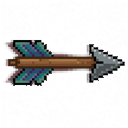
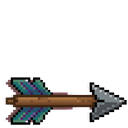
Record the open-set rekey attempt and Vira's review.
The stills are not accepted. Translucent veils were deleted, solid outlines dropped, and the bowstring reads as sparkles. The task carries that review for the next session.

diff --git a/tools/imglib/key.py b/tools/imglib/key.py
@@ -345,52 +345,111 @@ def strip_rim(arr: np.ndarray, hue_width: float = RIM_HUE_WIDTH, passes: int = 1
     return arr
 
 
-def border_comparison(rgb: np.ndarray):
-    """Plate colours from the border, plus strong black, white, and blue border colours.
+def _foreground_medians(samples: np.ndarray) -> list:
+    """Strong black, white, and blue colours in `samples` (N x 3). Plate-tinted pixels are left out.
 
-    Plate colours are the colour-to-alpha base. Black, white, and blue are subject samples:
-    they never become a plate reference, and they are a blend target only on the fringe that
-    touches the plate. Returns (plate refs or None, foreground samples).
+    Those three are subject samples. They are never a plate reference. A pixel that still
+    carries the plate (magenta excess in red and blue) is not a clean sample of them.
     """
-    samples = border_samples(rgb)
+    if samples.size == 0:
+        return []
     h, sat, v = hsv(samples.reshape(-1, 1, 3))
     h = np.asarray(h).reshape(-1)
     sat = np.asarray(sat).reshape(-1)
     v = np.asarray(v).reshape(-1)
     peak = samples.max(axis=1).astype(np.int16)
     floor = samples.min(axis=1).astype(np.int16)
-    black = peak <= 48
-    white = (floor >= 210) & (sat <= 0.16)
-    blue = (hue_gap(h, 220.0) <= 45.0) & (sat >= 0.40) & (v >= 0.35)
-    foreground = []
+    spill = np.maximum(0, np.minimum(samples[:, 0], samples[:, 2]).astype(np.int16) - samples[:, 1].astype(np.int16))
+    black = (peak <= 48) & (spill <= 12)
+    white = (floor >= 210) & (sat <= 0.12) & (spill <= 12)
+    blue = (hue_gap(h, 220.0) <= 45.0) & (sat >= 0.40) & (v >= 0.35) & (spill <= 24)
+    found = []
     for mask in (black, white, blue):
         if int(np.asarray(mask).sum()) >= 4:
-            foreground.append(tuple(int(x) for x in np.median(samples[mask], axis=0)))
-    plate_px = (hue_gap(h, PLATE_HUE) <= 36.0) & (sat >= 0.40) & (v >= 0.28) & ~black & ~white & ~blue
+            found.append(tuple(int(x) for x in np.median(samples[mask], axis=0)))
+    return found
+
+
+def border_comparison(rgb: np.ndarray):
+    """Plate colours from the border, plus strong black, white, and blue border colours.
+
+    Plate colours are the colour-to-alpha base. Black, white, and blue are subject samples:
+    they never become a plate reference. Returns (plate refs or None, foreground samples).
+    """
+    samples = border_samples(rgb)
+    h, sat, v = hsv(samples.reshape(-1, 1, 3))
+    h = np.asarray(h).reshape(-1)
+    sat = np.asarray(sat).reshape(-1)
+    v = np.asarray(v).reshape(-1)
+    foreground = _foreground_medians(samples)
+    spill = np.maximum(0, np.minimum(samples[:, 0], samples[:, 2]).astype(np.int16) - samples[:, 1].astype(np.int16))
+    plate_px = (hue_gap(h, PLATE_HUE) <= 36.0) & (sat >= 0.40) & (v >= 0.28) & (spill > 12)
     hits = int(np.asarray(plate_px).sum())
     if hits < 16 or hits / float(max(1, samples.shape[0])) < 0.05:
         return None, foreground
     return background_refs(rgb, hue=PLATE_HUE, hue_tol=36.0, sat_min=0.40, val_min=0.28), foreground
 
 
-def _fringe_color(rgb: np.ndarray, pick: np.ndarray, amount: np.ndarray, foreground: list):
-    """Pull the magenta plate out of a mix. Green is never invented.
+def _edge_foreground(rgb: np.ndarray, plate: np.ndarray) -> list:
+    """Black, white, and blue on the subject edge, where the figure meets the plate."""
+    ring = dilate(plate, 2) & ~plate
+    if not np.any(ring):
+        return []
+    return _foreground_medians(rgb[ring])
 
-    `pick`, `amount` and `foreground` stay in the signature so the border samples
-    remain available. The plate channel is the shared red and blue.
+
+def _touching(cand: np.ndarray, seeds: np.ndarray) -> np.ndarray:
+    """Components of `cand` that touch `seeds`."""
+    if not np.any(cand) or not np.any(seeds):
+        return np.zeros(cand.shape, dtype=bool)
+    n, lab, _areas, _touch = components(cand)
+    if n == 0:
+        return np.zeros(cand.shape, dtype=bool)
+    labels = np.unique(lab[dilate(seeds, 1) & cand])
+    labels = labels[labels > 0]
+    if labels.size == 0:
+        return np.zeros(cand.shape, dtype=bool)
+    return np.isin(lab, labels)
+
+
+def _fringe_color(rgb: np.ndarray, pick: np.ndarray, amount: np.ndarray, foreground: list):
+    """Remove the plate from a mix. Black, white, and blue samples stay those colours.
+
+    The plate shows up as red and blue together above green. Subtract that excess from
+    red and blue. Green is left as drawn, and RGB is never inverted. `amount` is the
+    colour-to-alpha plate fraction. `pick` is the plate colour. `foreground` is the
+    subject samples: when one of them explains the pixel, that colour is kept.
     """
-    _ = (pick, amount, foreground)
-    red = rgb[..., 0].astype(np.float32)
-    green = rgb[..., 1].astype(np.float32)
-    blue = rgb[..., 2].astype(np.float32)
+    p = rgb.astype(np.float32)
+    k = pick.astype(np.float32)
+    red, green, blue = p[..., 0], p[..., 1], p[..., 2]
     spill = np.maximum(0.0, np.minimum(red, blue) - green)
-    recon = np.empty_like(rgb, dtype=np.float32)
-    recon[..., 0] = np.clip(red - spill, 0.0, 255.0)
-    recon[..., 1] = green
-    recon[..., 2] = np.clip(blue - spill, 0.0, 255.0)
-    opacity = 1.0 - np.clip(spill / 255.0, 0.0, 1.0)
-    rgb_u8 = np.clip(np.rint(recon), 0, 255).astype(np.uint8)
-    alpha_u8 = np.clip(np.rint(opacity * 255.0), 0, 255).astype(np.uint8)
+    despill = np.empty_like(p)
+    despill[..., 0] = np.clip(red - spill, 0.0, 255.0)
+    despill[..., 1] = green
+    despill[..., 2] = np.clip(blue - spill, 0.0, 255.0)
+    removed = spill / np.maximum(np.minimum(red, blue), 1.0)
+    alpha = np.clip(1.0 - amount.astype(np.float32), 0.0, 1.0)
+    alpha = np.minimum(alpha, 1.0 - removed)
+    err_best = np.full(p.shape[:2], 1e9, dtype=np.float32)
+    chosen = despill
+    chosen_a = alpha
+    for sample in foreground:
+        s = np.array(sample, dtype=np.float32)
+        sk = s - k
+        denom = np.maximum((sk * sk).sum(axis=-1), 1.0)
+        a = np.clip(((p - k) * sk).sum(axis=-1) / denom, 0.0, 1.0)
+        recon = a[..., None] * s + (1.0 - a[..., None]) * k
+        err = np.sqrt(((p - recon) ** 2).sum(axis=-1) / 3.0)
+        better = err < err_best
+        err_best = np.where(better, err, err_best)
+        chosen = np.where(better[..., None], s, chosen)
+        chosen_a = np.where(better, a, chosen_a)
+    use = err_best <= 18.0
+    out_rgb = np.where(use[..., None], chosen, despill)
+    out_a = np.where(use, chosen_a, alpha)
+    rgb_u8 = np.clip(np.rint(out_rgb), 0, 255).astype(np.uint8)
+    alpha_u8 = np.clip(np.rint(np.clip(out_a, 0.0, 1.0) * 255.0), 0, 255).astype(np.uint8)
     return rgb_u8, alpha_u8
 
 
@@ -401,17 +460,20 @@ def punch(im: Image.Image, spill_flood: bool = False) -> Image.Image:
 
 
 def key_to_alpha(im: Image.Image, spill_flood: bool = True, tol: float = LAB_TOL, refs=None) -> Image.Image:
-    """Colour-to-alpha against the border plate. Glow and soft edges stay partial.
+    """One colour-to-alpha against the border plate. Glow and soft shading stay partial.
 
-    Strong black, white, and blue border pixels are subject samples, not the key. Interior
-    pixels stay as drawn. Solid plate becomes transparent black. RGB is never inverted.
-    `spill_flood` is accepted so callers keep one signature; stills and extracts share this path.
-    `tol` is accepted for the same reason. `refs` pins the plate colours.
+    Solid plate becomes transparent black. A pixel that touches that plate and still carries
+    the plate hue is unmixed, so the subject colour remains and the plate becomes alpha.
+    Strong black, white, and blue samples (image border, or the subject edge) stay those
+    colours when they explain the mix. Interior pixels stay as drawn. RGB is never inverted.
+    `spill_flood` is accepted so callers keep one signature. `tol` is the Lab distance of
+    solid plate. `refs` pins the plate colours.
     """
     src = im.convert("RGBA")
     arr = np.array(src, dtype=np.uint8, copy=True)
     rgb = arr[:, :, :3]
-    foreground: list = []
+    src_a = arr[:, :, 3]
+    _ = spill_flood
     if refs is None:
         found, foreground = border_comparison(rgb)
         if found is None:
@@ -423,35 +485,49 @@ def key_to_alpha(im: Image.Image, spill_flood: bool = True, tol: float = LAB_TOL
     else:
         refs = [tuple(int(v) for v in r) for r in refs]
         _found, foreground = border_comparison(rgb)
-    _ = spill_flood
     amount, pick = plate_amount(rgb, refs)
-    mask, refs, dist = plate_mask(rgb, refs=refs, alpha=arr[:, :, 3], tol=tol)
+    dist = delta_e(rgb, refs)
     hue, sat, val = hsv(rgb)
-    # Blue through violet is a plate-mixed glow. A purple pixel is that glow with the
-    # plate still in it (blue at least near red). Red maroon fails that test and stays.
-    blue = rgb[:, :, 2].astype(np.int16)
     red = rgb[:, :, 0].astype(np.int16)
-    # A plate mix sits near the plate hue and keeps its blue. Grey-blue cloth and red
-    # maroon fail that test, so a tinted body is not treated as glow.
-    plate_mix = (
-        (hue_gap(hue, PLATE_HUE) <= 32.0)
-        & (blue * 2 >= red)
-        & (sat >= 0.12)
-        & (val > 0.12)
-        & (amount < 0.90)
+    green = rgb[:, :, 1].astype(np.int16)
+    blue = rgb[:, :, 2].astype(np.int16)
+    spill = np.maximum(0, np.minimum(red, blue) - green)
+    clearly = (dist <= float(tol)) | (amount >= 0.88)
+    pale = (
+        (spill >= 12)
+        & (sat < 0.22)
+        & (val > 0.70)
+        & (hue_gap(hue, PLATE_HUE) <= 30.0)
+        & dilate(clearly, 1)
+        & ~clearly
     )
-    pale_lip = (sat < 0.22) & (val > 0.70) & (hue_gap(hue, PLATE_HUE) <= 28.0) & (blue + 30 >= red)
-    reached = flood_border(mask | plate_mix).astype(bool)
-    stray = ~mask & dilate(mask, 3) & (hue_gap(hue, PLATE_HUE) <= 26.0) & (sat >= 0.35) & ~plate_mix
-    already = arr[:, :, 3] == 0
-    clear = (mask & ~plate_mix) | (amount >= 0.90) | (dilate(mask, 1) & pale_lip) | stray | already
-    rim = dilate(mask, 2) & (sat <= 0.16) & (amount >= 0.18) & (amount < 0.90) & ~pale_lip & ~plate_mix
-    fringe = (reached & plate_mix & ~clear) | (rim & ~clear)
+    clear = clearly | pale | (src_a == 0)
+    foreground = list(dict.fromkeys(list(foreground) + _edge_foreground(rgb, clear)))
+    cand = ~clear & (spill >= 36) & ((hue_gap(hue, PLATE_HUE) <= 40.0) | (amount >= 0.35))
+    fringe = _touching(cand, clear)
+    # Light plate mixes sit a short way in from the plate: red and blue both above green,
+    # and blue at least near red. A red-dominant colour (maroon, leather) is the subject.
+    radius = max(4, min(rgb.shape[0], rgb.shape[1]) // 32)
+    red_dominant = red > (blue + 30)
+    mild = dilate(clear, radius) & ~clear & (spill >= 12) & ~red_dominant
+    # A light veil (the wisp's outer purple, the shopkeep glow) can be many pixels
+    # thick. Walk it while it stays light and not a red subject colour.
+    light = ~clear & (spill >= 12) & ~red_dominant & (val >= 0.55)
+    # A dark plate mix on the outline (black or feather edge cut with magenta).
+    # Hue stays tight so a purple drawn inside the art is not walked into.
+    dark_plate = ~clear & (spill >= 40) & ~red_dominant & (hue_gap(hue, PLATE_HUE) <= 22.0)
+    fringe = fringe | mild | _touching(light | dark_plate, clear)
     out = arr.copy()
     out[clear] = 0
     if np.any(fringe):
         recon, alpha = _fringe_color(rgb, pick, amount, foreground)
-        out[fringe, :3] = recon[fringe]
-        out[fringe, 3] = alpha[fringe]
+        alpha = np.clip(np.rint(alpha.astype(np.float32) * (src_a.astype(np.float32) / 255.0)), 0, 255).astype(np.uint8)
+        # A light tint on a solid pixel loses the plate colour and stays opaque.
+        tint = fringe & (alpha >= 230)
+        out[tint, :3] = recon[tint]
+        soft = fringe & (alpha >= 8) & (alpha < 230)
+        out[soft, :3] = recon[soft]
+        out[soft, 3] = alpha[soft]
         out[fringe & (alpha < 8)] = 0
+    out[out[:, :, 3] == 0] = 0
     return Image.fromarray(out, "RGBA")

diff --git a/tools/imglib/geom.py b/tools/imglib/geom.py
@@ -37,11 +37,21 @@ def resize_rgba(im: Image.Image, size: tuple[int, int]) -> Image.Image:
         pack[:, :, :3] = np.where(solid[..., None], arr[:, :, :3], 0.0)
         pack[:, :, 3] = np.where(solid, 255.0, 0.0)
         pooled = np.array(Image.fromarray(np.clip(np.rint(pack), 0, 255).astype(np.uint8), "RGBA").resize(size, Image.Resampling.BOX), dtype=np.float32)
-        hair = (cover >= 1) & (cover <= 48) & (scaled[:, :, 3] < 170.0)
+        # A thin solid line (a bowstring) falls under the filter. The soft edge of a
+        # solid mass sits next to pixels that stayed opaque, so that edge is left soft.
+        faint = (cover >= 1) & (cover <= 72) & (scaled[:, :, 3] < 150.0)
+        high = scaled[:, :, 3] >= 200.0
+        pad = np.pad(high, 1, mode="constant", constant_values=False)
+        near = (
+            pad[:-2, :-2] | pad[:-2, 1:-1] | pad[:-2, 2:]
+            | pad[1:-1, :-2] | pad[1:-1, 2:]
+            | pad[2:, :-2] | pad[2:, 1:-1] | pad[2:, 2:]
+        )
+        hair = faint & ~near
         if np.any(hair):
             tone = np.clip(pooled[:, :, :3] * (255.0 / np.maximum(pooled[:, :, 3:4], 1.0)), 0, 255)
             scaled[hair, :3] = tone[hair]
-            scaled[hair, 3] = np.maximum(scaled[hair, 3], 210.0)
+            scaled[hair, 3] = np.maximum(scaled[hair, 3], 220.0)
     return Image.fromarray(np.clip(np.rint(scaled), 0, 255).astype(np.uint8), "RGBA")
 
 

diff --git a/design/tasks/rekey-assets.md b/design/tasks/rekey-assets.md
@@ -34,9 +34,13 @@ This session wrote the open-set live PNGs so you can see the attempt. They are n
 - Reference is the source plate beside each live still.
 - First rewrite is the open set. She judges that before any other frame is rewritten.
 - Fixed checklist stays out: dummy, guild, guild_reception, stall, anvil, fence, pickaxe, male edge-cull.
-- Nearest-neighbor only when sizing up. High-quality resize when sizing down.
+- Nearest-neighbor only when sizing up. High-quality resize when sizing down. A downscale that leaves head.png blurry is not the result.
 - slot_legs.png comes from `_src/sources/assets/ui/gear/slot_legs.jpg` (dark greaves on magenta). Not from the extract gate.
-- Live stills of the attempt get committed so the next session can see them. They are not accepted.
+- Live stills of each attempt get committed so the next session can see them. They are not accepted.
+- Translucent areas on the plate stay as partial alpha. Shopkeep glow, the wisp outer layer, arrow shading, and the orb border were deleted. That is a failure. The orb border was the glow and was supposed to come back as alpha.
+- Solid outlines drawn on the plate survive. The hatchet is mostly good and is missing that outline. Other stills lost the same solid edge.
+- The longbow string must read as one string. Sparkles are not a string.
+- Female idle_down still has chunks missing from the arms.
 - Resume in a fresh session.
 
 ## Chosen surfaces, in order
@@ -53,32 +57,46 @@ This session wrote the open-set live PNGs so you can see the attempt. They are n
 Do not reopen: assets/fx/dummy.png, assets/sprites/buildings/guild.png, assets/sprites/buildings/guild_reception.png, assets/sprites/buildings/stall.png, assets/sprites/props/anvil.png, assets/sprites/props/fence.png, assets/ui/gear/pickaxe.png, and the male player frames.
 
 ## Ledger
-Decisions I made that were yours: all eight wisp idles are this one keyed plate, because the only source is idle_up.jpg. The fit ignores alpha below 24 so a faint halo does not shrink the subject. I removed the RGB invert in eat_spill instead of adding another spill case.
-Assumptions carried from memory or docs: stills resolve through the manifest in `_src`. art-pack.md now says soft alpha and a high-quality downscale, matching her 2026-10-09 note. Palette snap was not applied to these stills.
-Also changed: tools/imglib/key.py (key_to_alpha, border_comparison, _fringe_color). tools/imglib/geom.py (resize_rgba, shrink, fit_axis, fit_box). tools/sprite_pipeline.py key_to_alpha docstring. tools/imglib/selftest.py JPEG check now treats alpha above 200 as opaque plate. design/art-pack.md steps 2, 3, and 5. Live PNGs listed above. No `.gd` files. `_src` was not written. Callers of key_to_alpha not run: pack_locomotion.py, pack_walk.py, process_gear_icons.py, rekey_stills.py, process_session_sprites.py, match_keyed_region.py. Callers of fit_box, shrink, and fit_axis not run: pack_locomotion.py, pack_walk.py, pack_turntable.py, pack_facing_fix.py, pack_p4_enemies.py, process_gear_icons.py, process_enemies.py, process_world.py, process_world_pass.py, process_gloam.py, rekey_stills.py.
+Decisions I made that were yours: all eight wisp idles are this one keyed plate. Fringe colour is a despill (subtract min(R, B) - G from R and B), a light-veil walk, and a dark outline only within 22 degrees of the plate. Red-dominant colours were left as drawn. Fit ignores alpha below 24. Canvases stayed 128, orb 48, gear 64. Downscale is premultiplied Lanczos. Hairline lift only where a thin solid line is not the edge of a solid mass.
+Assumptions carried from memory or docs: stills resolve through the manifest in `_src`. slot_legs.jpg is the greaves plate. art-pack.md soft alpha and high-quality downscale still stand. Palette snap was not applied. Her 2026-10-09 review overrides the claim that the veil was kept.
+Also changed: tools/imglib/key.py (key_to_alpha, border_comparison, _fringe_color). tools/imglib/geom.py (resize_rgba hairline). Live PNGs in Chosen surfaces, including all eight wisp idles. This task file. No `.gd` files. `_src` was not written. Previews under `_logs/rekey-look/` (gitignored). Callers of key_to_alpha not run: pack_locomotion.py, pack_walk.py, process_gear_icons.py, rekey_stills.py, process_session_sprites.py, match_keyed_region.py. Callers of fit_box not run: pack_facing_fix.py, pack_p4_enemies.py, process_gear_icons.py, process_gloam.py, process_world.py, process_enemies.py.
 
 ## Baselines for the chosen surface
-C:\Users\Vira\.grok\worktrees\repos-whatdwellsbelow\wdb-art-pipelinepack-20261009-0250\assets\sprites\npcs\shopkeep.png - repo path assets/sprites/npcs/shopkeep.png. Body intact. Magenta gap beside the apron.
-C:\Users\Vira\.grok\worktrees\repos-whatdwellsbelow\wdb-art-pipelinepack-20261009-0250\assets\sprites\enemies\wisp\idle_up.png - repo path assets/sprites/enemies/wisp/idle_up.png. Blue wisp, purple outer edge. The other seven idle facings match this file.
-C:\Users\Vira\.grok\worktrees\repos-whatdwellsbelow\wdb-art-pipelinepack-20261009-0250\assets\fx\arrow.png - repo path assets/fx/arrow.png. Pink fringe on the fletching. Softer outline.
-C:\Users\Vira\.grok\worktrees\repos-whatdwellsbelow\wdb-art-pipelinepack-20261009-0250\assets\sprites\props\hp_orb.png - repo path assets/sprites/props/hp_orb.png. Gem with a purple edge. Much of the canvas is partial alpha.
-C:\Users\Vira\.grok\worktrees\repos-whatdwellsbelow\wdb-art-pipelinepack-20261009-0250\assets\sprites\player\female\idle_down.png - repo path assets/sprites/player/female/idle_down.png. Softer 128. A few magenta pixels on the armor.
-C:\Users\Vira\.grok\worktrees\repos-whatdwellsbelow\wdb-art-pipelinepack-20261009-0250\assets\ui\gear\head.png - repo path assets/ui/gear/head.png. Top hole measured 0. Metal is soft.
-C:\Users\Vira\.grok\worktrees\repos-whatdwellsbelow\wdb-art-pipelinepack-20261009-0250\assets\ui\gear\hatchet.png - repo path assets/ui/gear/hatchet.png. Softer edges. Axe body is mostly partial alpha.
-C:\Users\Vira\.grok\worktrees\repos-whatdwellsbelow\wdb-art-pipelinepack-20261009-0250\assets\ui\gear\longbow.png - repo path assets/ui/gear/longbow.png. String still broken. Bow is mostly partial alpha.
-C:\Users\Vira\.grok\worktrees\repos-whatdwellsbelow\wdb-art-pipelinepack-20261009-0250\assets\ui\gear\slot_legs.png - repo path assets/ui/gear/slot_legs.png. Empty-slot greaves from her jpg. Softer than the file it replaced.
+Current live stills, reviewed by Vira on 2026-10-09. Not accepted.
+
+- assets/sprites/npcs/shopkeep.png. Slightly improved. Huge sections of the translucent glow are missing.
+- assets/sprites/enemies/wisp/idle_up.png, and the other seven idles (same picture). Slightly improved. Huge sections of the translucent outer layer are missing.
+- assets/fx/arrow.png. The translucent shading is gone.
+- assets/sprites/props/hp_orb.png. The translucent border is gone. That border was the glow and was supposed to return as alpha.
+- assets/sprites/player/female/idle_down.png. Chunks of the arms are missing.
+- assets/ui/gear/head.png. Blurry.
+- assets/ui/gear/hatchet.png. Mostly good. Missing the solid outline from the plate.
+- assets/ui/gear/longbow.png. The string reads as sparkles.
+- assets/ui/gear/slot_legs.png. Not called out in this review.
+
+The 2026-10-09-0250 worktree notes (magenta gap, purple wisp edge, pink arrow fringe, partial hatchet) were the attempt before this one.
 
 ## Files and functions to touch
-- tools/imglib/key.py: key_to_alpha, border_comparison, _fringe_color. Plate pixels become transparent black. Plate-hued fringe is despilled by subtracting min(R, B) - G from R and B. Do not bring back the RGB invert.
-- tools/imglib/geom.py: resize_rgba (nearest only when both sides grow; premultiplied Lanczos when either side shrinks; hairline lift), fit_box (crop alpha at 24).
-- tools/imglib/selftest.py: run `python tools/img_inspect.py selftest` after a key change. It passed at the end of this session.
+- tools/imglib/key.py: key_to_alpha, border_comparison, _fringe_color. Solid plate becomes transparent black. The translucent veil must stay as partial alpha. The despill that subtracts min(R, B) - G deleted that veil on shopkeep, the wisp, the arrow, and the orb. Do not bring back the RGB invert. Do not delete glow to make the selftest clean. Solid outlines on the plate have to survive.
+- tools/imglib/geom.py: resize_rgba. Nearest only when both sides grow. Sizing down stays high quality, and head.png must not come out blurry. The hairline lift made the bowstring sparkle. A string has to stay one line. fit_box still crops alpha at 24. Do not throw away a faint halo when that halo is the glow she wants kept.
+- tools/imglib/selftest.py: run `python tools/img_inspect.py selftest` after a key change. It passed. That is not acceptance.
 - The nine live paths above. Write a still only after you have looked at it. She confirms each one.
 - design/art-pack.md if the key contract changes again.
 
 ## Did not work
-Latest `python tools/img_inspect.py selftest` passed (12 checks). Earlier failures in this session, since fixed: light-pink lip recolored the maroon cloth; JPEG plate left 103 then 94 pixels opaque; light-pink lip stayed fully opaque. Do not treat those as open.
+`python tools/img_inspect.py selftest` passed (12 checks) after this key change. A passing selftest is not acceptance.
 
-The live stills are not accepted. Shopkeep gap, wisp edge, arrow fringe, and orb edge still show plate color. Longbow string and hatchet solidity got worse. Do not call the key done.
+Vira reviewed the open set on blue on 2026-10-09. She does not see the set as fixed. Some stills are slightly improved. None are accepted.
+
+- Hatchet is mostly good. It lacks the solid outline the plate has. Many of these plates have a solid edge, and that outline was lost.
+- Shopkeep and the wisp are missing huge sections of their translucent areas.
+- The bowstring does not read as a string. It looks like sparkles.
+- Chunks of the female's arms are missing.
+- The head looks blurry.
+- The arrow has none of its translucent shading.
+- The orb's translucent areas are completely missing. That border was the glow. It was supposed to come back as alpha.
+
+The key cleared plate and subtracted min(R, B) - G on the fringe. That removed the veil instead of storing it as alpha. The hairline lift in resize_rgba broke the string into separate marks. Do not call the key done. Do not treat the older lip and JPEG selftest failures as open.
 
 ## Open questions
 none. The look, the reference, the open set, and the out-of-bounds list are settled above. Ask only if a discovery changes what she will see.
